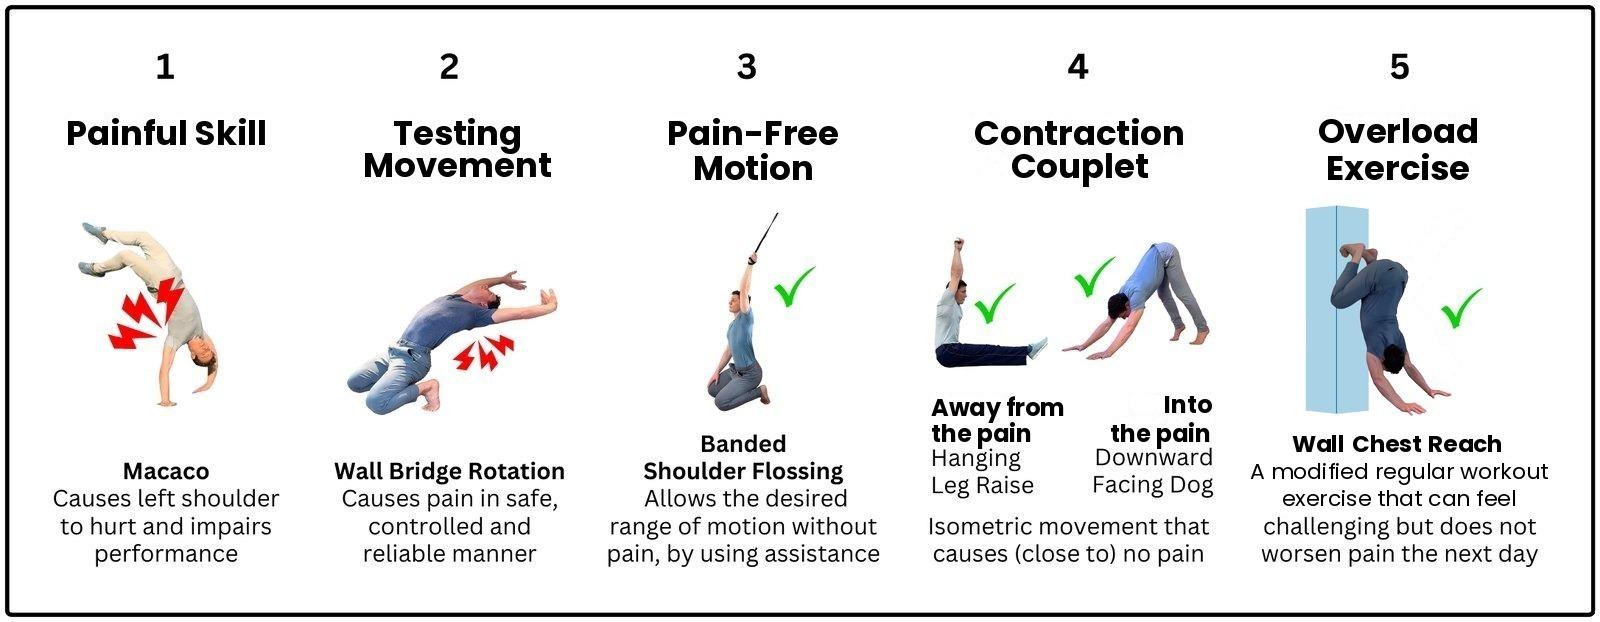
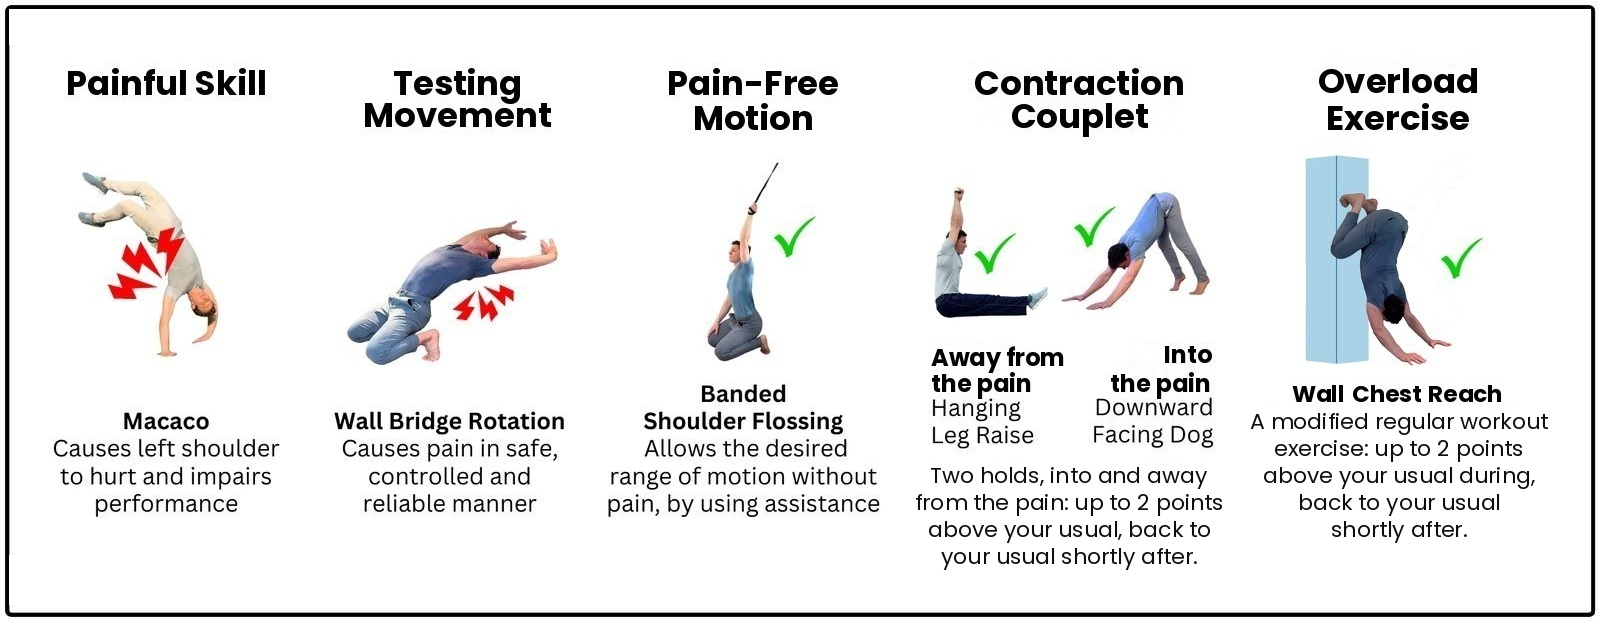
Preview: everyday-task question in Assess, regular-workout question in Program, corrected five-movements graphic (adapt-v66)
Not live: on a branch for Sam's review. Pages deploys from main only.

Claude-Session: https://claude.ai/code/session_01KPdD7PkuL4yCT5s2oXxxDz

diff --git a/index.html b/index.html
@@ -291,10 +291,10 @@ function newPlan(o={}){
   return Object.assign({
     id:uid(), v:1, created:today(), person:"", last:"", side:"", region:"", support:"self", origin:"self",
     screen:{ rf:{}, hh:{}, done:false, date:null },
-    assess:{ kind:"painful", start:"", how:"", recent:"", nrsop:null, skill:"", inhibited:"", pct:"", psfs:null, goal:"" },
+    assess:{ kind:"painful", ctx:"", start:"", how:"", recent:"", nrsop:null, skill:"", inhibited:"", pct:"", psfs:null, goal:"" },
     determine:{ crux:"", move:"", dose:"", range:"", load:"", nrsop:null },
     approach:{ pfm:"", cc:"", cc2:"" },
-    program:{ ov:"", replaces:"", skip:false },
+    program:{ ov:"", replaces:"", workout:"", skip:false },
     tracking:false,
     logs:{ daily:{}, tests:[], overload:[], skill:[] },
     note:""
@@ -365,6 +365,12 @@ function toast(t){ const el=document.createElement("div"); el.className="toast";
 async function copy(text){ try{ await navigator.clipboard.writeText(text); toast("Copied"); return true; }catch(e){ return false; } }
 const isPainful = p => p.assess.kind !== "restricted";
 const skillLabel = p => isPainful(p) ? "Painful Skill" : "Restricted Skill";
+// Everyday task or sport/training (Sam, Aaron agreed, November 10, 2026); unset reads as sport/training
+const isDaily = p => !!(p&&p.assess&&p.assess.ctx==="daily");
+const skillType = p => isDaily(p) ? " (everyday task)" : "";
+// Regular workout program? (Sam, Aaron agreed, November 10, 2026): "no" means the Overload Exercise is added, not swapped in.
+// Older plans with a replaced exercise filled in count as "yes".
+const hasWorkout = p => p.program.workout || ((p.program.replaces||"").trim() ? "yes" : "");
 
 function scaleColor(n, kind){ // NRSoP: 0 green to 10 red; PSFS: 0 red to 10 green
   const t = kind==="psfs" ? (10-n)/10 : n/10;
@@ -705,7 +711,7 @@ function handoffView(p){ const sam=p.support==="sam"; const goal=(p.assess.goal|
     <p>${who} holding your ${sk} back anymore. That’s the ADAPT part done; the next part happens in your regular training.</p>
     <p><b>Take these with you:</b></p><ul class="tight">
     <li><b>Your ${esc(mvn(p,"pfm"))} and ${esc(mvn(p,"cc"))}:</b> they’re not daily anymore, but they’re your go-to warm-up or reset whenever your ${sk} feels off</li>
-    ${(!p.program.skip&&(p.program.ov||"").trim())?`<li><b>Your ${esc(mvn(p,"ov"))}:</b> you can swap back to ${esc((p.program.replaces||"").trim()||"your original exercise")} now, or keep it in your rotation. Keeping it for a couple of weeks means one less change while you ramp up your skill practice; swapping it now puts your whole program back the way it was originally</li>`:""}
+    ${(!p.program.skip&&(p.program.ov||"").trim())?`${hasWorkout(p)==="no"?`<li><b>Your ${esc(mvn(p,"ov"))}:</b> keep it going 2-3 times a week; it’s the start of your own strength routine</li>`:`<li><b>Your ${esc(mvn(p,"ov"))}:</b> you can swap back to ${esc((p.program.replaces||"").trim()||"your original exercise")} now, or keep it in your rotation. Keeping it for a couple of weeks means one less change while you ramp up your skill practice; swapping it now puts your whole program back the way it was originally</li>`}`:""}
     <li><b>Adjustment variables:</b> assistance, range, speed, and load let you adjust a movement instead of stopping completely or just powering through</li>
     <li><b>Respect but don’t fear your pain:</b> a little discomfort is information, not a stop sign</li>
     <li><b>Find the wins obscured by the losses:</b> keep the ADAPT mindset to always find some alternative way to continue improving</li></ul></div>
@@ -715,7 +721,7 @@ function handoffView(p){ const sam=p.support==="sam"; const goal=(p.assess.goal|
     ${win}</div>
   <div class="card"><h2>Your plan and tracking</h2><div class="row"><button class="btn plain small" data-act="go" data-v="track">View my plan and tracking</button>${armed==="reentry"?`<div class="row"><button class="btn small" data-act="reentry">Yes, it’s getting limited again</button><button class="btn plain small" data-act="reentry-cancel">Cancel</button></div>`:`<button class="btn plain small" data-act="reentry">My ${sk} is getting limited again</button>`}</div></div>
   </div>`; }
-function winEmail(p){ const s=statRow(p,p.win.date); const lines=["Hi Sam, I hit my 11/10.","",`11/10 goal: ${p.assess.goal||"-"}`,`${skillLabel(p)}: ${p.assess.skill||"-"}`,
+function winEmail(p){ const s=statRow(p,p.win.date); const lines=["Hi Sam, I hit my 11/10.","",`11/10 goal: ${p.assess.goal||"-"}`,`${skillLabel(p)}${skillType(p)}: ${p.assess.skill||"-"}`,
   `Support: ${s.support}`,`Side and region: ${[s.side,s.region].filter(Boolean).join(" ")||"-"}`,`Skill type: ${s.kind}`,`PSFS at start: ${s.psfs===""?"-":s.psfs+"/10"}`,
   `Weeks to 10/10: ${p.handoff?weeksSince(p,p.handoff.at10):"-"}`,`Weeks to 11/10: ${s.weeks}`,`Exercise changes: ${s.changes}`];
   return lines.join("\n"); }
@@ -764,6 +770,7 @@ const EX_GROUPS = {S:"shoulder",Ar:"shoulder",UB:"shoulder",Ch:"shoulder",K:"kne
 const EX = {
   shoulder:{name:"a shoulder",
     crux:"“My shoulder, with my arm overhead, while it holds my weight (like the bottom of a handstand or a kipping swing).”",
+    cruxD:"“My shoulder, with my arm reaching up, while it holds some weight (like putting a box on a high shelf).”",
     tm:"A controlled wall slide: forearms on a wall, slide your hands up as high as you can control. 5 controlled reps.",
     pfm:"Hold a door frame or a band overhead and step under it, so your arm ends up overhead without your shoulder doing the lifting.",
     into:"Arm overhead against a wall, push your hand into the wall and hold.",
@@ -772,6 +779,7 @@ const EX = {
     ov:"Wall chest reaches: hands on the floor, walk your chest toward the wall, deeper over time."},
   knee:{name:"a knee",
     crux:"“My knee, bent deep, with my weight on it (like landing a jump or the bottom of a squat).”",
+    cruxD:"“My knee, bent deep, with my weight on it (like getting up from a low chair or going down stairs).”",
     tm:"A partial single-leg squat holding a pole for balance, only as deep as you control. 5 controlled reps.",
     pfm:"Lying on your back, slide your heel toward your butt and back out (heel slides).",
     into:"A wall sit at the depth just before it bothers you.",
@@ -780,6 +788,7 @@ const EX = {
     ov:"Step-downs from a low box, controlling the way down; raise the box over time."},
   back:{name:"a low back",
     crux:"“My low back, bending forward, with load (like picking something up or rolling down).”",
+    cruxD:"“My low back, bending forward, with load (like picking up a laundry basket or loading the dishwasher).”",
     tm:"A controlled roll-down with a light weight (Jefferson curl), only as far as you control. 5 controlled reps.",
     pfm:"On hands and knees, rock your hips back toward your heels and forward again.",
     into:"Hold a hip hinge (like the start of a deadlift) with a light weight, just before it bothers you.",
@@ -788,6 +797,7 @@ const EX = {
     ov:"Back extensions on a bench or Roman chair, through a range that fits the pain guidelines."},
   wrist:{name:"a wrist",
     crux:"“My wrist, bent back, with my weight on it (like a handstand or a push-up).”",
+    cruxD:"“My wrist, bent back, with my weight on it (like pushing up from a chair or leaning on a counter).”",
     tm:"Hands flat on a table, lean your weight forward over them as far as you control. 5 controlled reps.",
     pfm:"Hands together in front of your chest (prayer position), slide them gently down and up.",
     into:"Hands flat on a table, lean a little weight forward and hold.",
@@ -796,6 +806,7 @@ const EX = {
     ov:"Incline push-ups on a raised surface, lowering the surface over time."},
   neck:{name:"a neck",
     crux:"“My neck, turned and tilted back, while it holds my head steady (like looking up in a bridge or a headstand).”",
+    cruxD:"“My neck, turned and tilted back, while it holds my head steady (like looking over your shoulder or up at a high shelf).”",
     tm:"Seated, turn your head toward the sore side and look up, as far as you control. 5 controlled reps.",
     pfm:"Lying on your back with your head supported, gently roll your head side to side.",
     into:"Hand on the side of your head, push your head into your hand toward the sore side and hold, without letting it move.",
@@ -804,6 +815,7 @@ const EX = {
     ov:"Wall-supported headstand holds with most of your weight on your hands, shifting more onto your head over time."},
   elbow:{name:"an elbow",
     crux:"“My elbow, bent and pulling, with my weight on it (like the top of a pull-up).”",
+    cruxD:"“My elbow, bent and pulling, with weight in my hand (like carrying grocery bags or lifting a full pot).”",
     tm:"A controlled biceps curl with a light weight, through the range you control. 5 controlled reps.",
     pfm:"Forearm resting on a table, slide your hand toward your shoulder and back, letting the table hold the weight.",
     into:"Elbow bent to 90 degrees, push your palm up into the underside of a table and hold.",
@@ -812,6 +824,7 @@ const EX = {
     ov:"Ring rows or inverted rows, making your body angle steeper over time."},
   hip:{name:"a hip",
     crux:"“My hip, bent deep, with my weight on it (like the bottom of a squat or a deep lunge).”",
+    cruxD:"“My hip, bent deep, with my weight on it (like getting out of a low chair or out of the car).”",
     tm:"A controlled squat holding a pole for balance, only as deep as you control. 5 controlled reps.",
     pfm:"Lying on your back, hug one knee toward your chest and let it back down, with your hands doing the work.",
     into:"Lying on your back, knee bent toward your chest, push your knee up into your hands and hold.",
@@ -820,6 +833,7 @@ const EX = {
     ov:"Box squats to a high box, lowering the box over time."},
   ankle:{name:"an ankle",
     crux:"“My ankle, bent with my knee forward over my toes, with my weight on it (like landing a jump or the bottom of a squat).”",
+    cruxD:"“My ankle, bent with my knee forward over my toes, with my weight on it (like going down stairs or crouching to pick something up).”",
     tm:"Knee-to-wall: foot facing a wall, bring your knee toward the wall as far as you control. 5 controlled reps.",
     pfm:"Seated, draw slow circles with your foot.",
     into:"Split stance, bend your front knee forward until just before it bothers you and hold.",
@@ -830,8 +844,9 @@ const EX = {
 function exFor(p){ return EX[EX_GROUPS[p.region]]||null; }
 function exBox(p,k,label){ const e=exFor(p);
   if(!p.region) return `<div class="ex"><b>${esc(label||"Example")}</b><span class="small">Pick your body region in Step 1 (Assess) to see an example for your area here.</span></div>`;
-  if(!e) { const s=EX.shoulder; return `<div class="ex"><b>${esc(label||"Example")} (shoulder)</b><span class="small">We don’t have an example for this area yet, so here’s one for a shoulder to show the idea. ${esc(k==="ov"?`Replacing ${s.rep.toLowerCase()}: ${s.ov}`:s[k])}</span></div>`; }
-  const txt = k==="ov" ? `Replacing ${e.rep.toLowerCase()}: ${e.ov}` : e[k];
+  if(!e) { const s=EX.shoulder; return `<div class="ex"><b>${esc(label||"Example")} (shoulder)</b><span class="small">We don’t have an example for this area yet, so here’s one for a shoulder to show the idea. ${esc(k==="ov"?(hasWorkout(p)==="no"?s.ov:`Replacing ${s.rep.toLowerCase()}: ${s.ov}`):s[k==="crux"&&isDaily(p)?"cruxD":k])}</span></div>`; }
+  const kk = k==="crux"&&isDaily(p)&&e.cruxD ? "cruxD" : k;
+  const txt = k==="ov" ? (hasWorkout(p)==="no" ? e.ov : `Replacing ${e.rep.toLowerCase()}: ${e.ov}`) : e[kk];
   return `<div class="ex"><b>${esc(label||"Example")} for ${esc(e.name)}</b><span class="small">${esc(txt)}</span></div>`; }
 function subPart(n,title,paths,body){ const p=P(); const done = paths.length && paths.every(x=>String(getPath(p,x)??"").trim());
   return `<div class="card sub" data-req="${paths.join(",")}" data-done="${done?"1":""}"><h2 class="sub-h"><span class="n"><span>${n}</span></span>${esc(title)}</h2>${body}</div>`; }
@@ -855,7 +870,12 @@ const PARTS = {
       <div class="row" role="group" aria-labelledby="kind-q">
       <button class="btn small ${a.kind!=="restricted"?"":"plain"}" data-act="kind" data-v="painful" aria-pressed="${a.kind!=="restricted"}">It hurts</button>
       <button class="btn small ${a.kind==="restricted"?"":"plain"}" data-act="kind" data-v="restricted" aria-pressed="${a.kind==="restricted"}">It's limited, but doesn't hurt</button></div>
-      ${a.kind==="restricted"?`<p class="fine">If the label of “pain” isn’t connecting with you, we’ve all got a weak link that’s holding us back from a skill we want; just swap that language in your mind whenever it comes up.</p>`:""}</div>`; }},
+      ${a.kind==="restricted"?`<p class="fine">If the label of “pain” isn’t connecting with you, we’ve all got a weak link that’s holding us back from a skill we want; just swap that language in your mind whenever it comes up.</p>`:""}
+      <b id="ctx-q">Is it part of a sport or training, or an everyday task?</b>
+      <div class="row" role="group" aria-labelledby="ctx-q">
+      <button class="btn small ${a.ctx==="sport"?"":"plain"}" data-act="ctx" data-v="sport" aria-pressed="${a.ctx==="sport"}">Sport or training</button>
+      <button class="btn small ${a.ctx==="daily"?"":"plain"}" data-act="ctx" data-v="daily" aria-pressed="${a.ctx==="daily"}">Everyday task</button></div>
+      <p class="fine">Everyday tasks count. Standing for 15 minutes, sitting through a movie, or carrying groceries up the stairs can be your skill just like a handstand or a takedown can.</p></div>`; }},
     {t:"Where and when", paths:["region"], body:p=>subPart(1, isPainful(p)?"Pain/Injury Details":"Details", ["region"], `
       <div class="f" style="display:grid;gap:6px"><b>Where is it?</b><span class="hint muted small">If more than one area is involved, pick the one most important to focus on in this plan.</span>
       <div class="row" role="group" aria-label="Side">${SIDES.map(([k,l])=>`<button type="button" class="btn small ${p.side===k?"":"plain"}" data-act="side" data-v="${k}" aria-pressed="${p.side===k}">${l}</button>`).join("")}</div>
@@ -865,26 +885,30 @@ const PARTS = {
       ${field("What have you noticed recently?","assess.recent","",{area:true})}
       ${isPainful(p)?`<div class="f" style="display:grid;gap:6px"><b>My NRSoP score</b><span class="hint muted small">Numeric Rating Scale of Pain. Higher score = more pain.</span>${scale("assess.nrsop",p.assess.nrsop,"nrsop")}</div>`:""}`),
       sum:p=>[["Where",regionName(p)],["Started",p.assess.start],["How it started",p.assess.how],["Recently",p.assess.recent],...(isPainful(p)?[["NRSoP",p.assess.nrsop!=null?p.assess.nrsop+"/10":""]]:[])]},
-    {t:p=>skillLabel(p), paths:["assess.skill"], body:p=>subPart(2, skillLabel(p), ["assess.skill"], `
+    {t:p=>skillLabel(p), paths:["assess.skill"], body:p=>subPart(2, skillLabel(p), ["assess.skill"], isDaily(p) ? `
+      <p class="fine">In ADAPT, this everyday task is your ${esc(skillLabel(p))}.</p>
+      ${field("What everyday task is limited?","assess.skill","Something from daily life or work, described as the task, not just a body motion. ex., standing for 15 minutes, sitting through a movie, carrying groceries up the stairs, picking up your kid (not “bending my back”).",{ph:"ex., standing for 15 minutes"})}
+      ${field("How is it limited?","assess.inhibited","ex., pain, apprehension, weakness, loss of control.",{area:true})}
+      ${field("What percentage of the time is it limited?","assess.pct","",{ph:"ex., 80%"})}` : `
       ${field("What skill is inhibited?","assess.skill","A skill from your sport or practice, not just a body motion. ex., kipping pull-ups, landing a back handspring, shooting a double-leg takedown (not “lifting my arm”).",{ph:"ex., macaco"})}
       ${field("How is the skill inhibited?","assess.inhibited","ex., pain, apprehension, weakness, loss of control.",{area:true})}
       ${field("What percentage of reps are inhibited?","assess.pct","",{ph:"ex., 80%"})}`),
-      sum:p=>[["Skill",p.assess.skill],["How it’s inhibited",p.assess.inhibited],["Reps inhibited",p.assess.pct]]},
+      sum:p=>isDaily(p)?[["Everyday task",p.assess.skill],["How it’s limited",p.assess.inhibited],["Time limited",p.assess.pct]]:[["Skill",p.assess.skill],["How it’s inhibited",p.assess.inhibited],["Reps inhibited",p.assess.pct]]},
     {t:"PSFS score", paths:["assess.psfs"], body:p=>subPart(3, "Your PSFS score", ["assess.psfs"], `
       <img class="fig" src="img/psfs-scale.jpg" alt="PSFS scale: 0 means unable to perform the activity due to pain or injury, 10 means able to perform it at the same level as before." width="1600" height="647">
       <div style="display:grid;gap:6px"><b>My PSFS score for this skill</b><span class="hint muted small">${esc(psfsExplain(p))}</span>${scale("assess.psfs",p.assess.psfs,"psfs")}</div>`),
       sum:p=>[["PSFS",p.assess.psfs!=null?p.assess.psfs+"/10":""]]},
     {t:"11/10 goal", paths:["assess.goal"], body:p=>subPart(4, "Your 11/10 goal", ["assess.goal"], `
-      ${field("Your 11/10 “Beyond-Old-Limits” goal","assess.goal","What would let you know you expanded your movement horizons? Ex.: “I can land an aerial pain-free on the knee that currently hurts, which would mean my knee is comfortable with more load than it ever has.”",{area:true})}`),
+      ${field("Your 11/10 “Beyond-Old-Limits” goal","assess.goal",isDaily(p)?"What would let you know you expanded your limits? Ex.: “I can stand through a whole concert and then walk home, which would mean my back handles more than it did before this started.”":"What would let you know you expanded your movement horizons? Ex.: “I can land an aerial pain-free on the knee that currently hurts, which would mean my knee is comfortable with more load than it ever has.”",{area:true})}`),
       sum:p=>[["Goal",p.assess.goal]]}
   ],
   step2:[
     {t:"Overview", body:p=>{ const sk=esc(skillLabel(p).toLowerCase()); return `<div class="card"><p>Testing your ${sk} every week just pokes the bear instead of giving useful data. Instead, you’ll find a simpler movement that brings on the same problem in a way you control. That’s your <b>Testing Movement</b>. You’ll repeat it once a week to see if you’re getting better.</p>
       <div class="rule"><b>Test once a week, cold</b><span class="small">No warm-up, and around the same time of day if you can. Changes in these numbers over time tell you whether you’re improving, holding steady, or slipping.</span></div>
       <p class="small muted">${esc(skillLabel(p))}: <b>${esc(p.assess.skill||"not filled in yet")}</b></p>
-      ${more("Why not just test the skill?",`<p>It may not be safe to perform right now, or pain may make you bail halfway (ever bailed in the middle of a backflip? Not fun, and potentially dangerous). It can also build doubt about the skill, and it may need a warm-up, which makes week-to-week results less reliable. The Testing Movement avoids all of that.</p>`)}</div>`; }},
+      ${isDaily(p)?more("Why not just test the task?",`<p>Doing the full task every week can flare things up, it can build doubt about something you need for daily life, and how it goes depends a lot on the day (how tired you are, how long you’ve been on your feet), which makes week-to-week results less reliable. The Testing Movement avoids all of that.</p>`):more("Why not just test the skill?",`<p>It may not be safe to perform right now, or pain may make you bail halfway (ever bailed in the middle of a backflip? Not fun, and potentially dangerous). It can also build doubt about the skill, and it may need a warm-up, which makes week-to-week results less reliable. The Testing Movement avoids all of that.</p>`)}</div>`; }},
     {t:"Find the crux", paths:["determine.crux"], body:p=>{ const sk=esc(skillLabel(p).toLowerCase()); return subPart(1,"Find the crux",["determine.crux"],`<p class="small">Boil your ${sk} down to the smallest piece that causes the problem. It’s usually one area, in one position, with some load on it. Ask yourself:</p>
-      <ul class="tight small"><li><b>Which area?</b> For example, the front of your shoulder, the inside of your knee, your low back</li><li><b>In what position?</b> For example, arm overhead, knee bent deep, back rounded</li><li><b>Doing what?</b> For example, holding your weight, landing, pulling, pushing</li></ul>
+      <ul class="tight small"><li><b>Which area?</b> For example, the front of your shoulder, the inside of your knee, your low back</li>${isDaily(p)?`<li><b>In what position?</b> For example, standing tall, sitting slumped, bent forward, arm reaching up</li><li><b>Doing what?</b> For example, holding still for a long time, lifting, carrying, reaching</li>`:`<li><b>In what position?</b> For example, arm overhead, knee bent deep, back rounded</li><li><b>Doing what?</b> For example, holding your weight, landing, pulling, pushing</li>`}</ul>
       ${exBox(p,"crux")}
       ${field("The crux of my issue","determine.crux","",{area:true,ph:"Which area, in what position, doing what"})}`); },
       sum:p=>[["Crux",p.determine.crux]]},
@@ -925,15 +949,19 @@ const PARTS = {
       sum:p=>[["Into it",p.approach.cc],["Away from it",p.approach.cc2]]}
   ],
   step4:[
-    {t:"Overview", body:p=>`<div class="card"><p>Your <b>Overload Exercise</b> is a real strength exercise: a modified version of one you’d normally train, working in and out of the problem. Unlike the daily exercises, you push it harder over time, like the rest of your regular workout.</p>
+    {t:"Overview", body:p=>`<div class="card"><p>${hasWorkout(p)==="no"?`Your <b>Overload Exercise</b> is a real strength exercise, working in and out of the problem. Unlike the daily exercises, you push it harder over time, 2-3 times a week.`:`Your <b>Overload Exercise</b> is a real strength exercise: a modified version of one you’d normally train, working in and out of the problem. Unlike the daily exercises, you push it harder over time, like the rest of your regular workout.`}</p>
       ${more("Why it matters",`<p>It drives healing and teaches your brain that this range and intensity are safe. Because it stands in for an exercise you already do, the strength carries straight back into your regular training and the skills it supports. It also feels very normal because it’s modified normal exercise, and feeling normal throughout this is awesome.</p>`)}</div>`},
-    {t:"What it replaces", paths:["program.replaces"], body:p=>subPart(1,"Find the exercise you can’t do right now",["program.replaces"],`<p class="small">Which exercise in your regular workout is limited by this problem? That’s the one you’ll replace for now. For example, if shoulder pain is getting in the way of your front handsprings, it’s probably getting in the way of the handstand push-ups you do to build them, too. The handstand push-up is the one to replace.</p>
-      ${field("The exercise it replaces","program.replaces","ex., handstand push-ups, back squats, pull-ups.")}`),
-      sum:p=>[["Replaces",p.program.replaces]]},
-    {t:"Modify it", paths:["program.ov"], body:p=>subPart(2,"Modify it until it fits",["program.ov"],`<p class="small">Change ${p.program.replaces.trim()?`your ${esc(p.program.replaces.trim().toLowerCase())}`:"that exercise"} until it fits the pain guidelines: pain rises no more than 2 points during, and settles back down shortly after.</p>
-      <ul class="tight small"><li><b>Keep it working in and out of the problem:</b> if pushing overhead hurts, it stays a push overhead</li><li><b>Ways to modify:</b> change the angle, shorten the range, add support, or use less weight</li><li><b>It should feel like part of your regular workout,</b> harder than your couplet and close to the exercise it replaces</li></ul>
+    {t:"Your regular workout", paths:p=>hasWorkout(p)==="no"?["program.workout"]:["program.replaces"], body:p=>{ const w=hasWorkout(p); return subPart(1,"Your regular workout",w==="no"?["program.workout"]:["program.replaces"],`<b id="wk-q">Do you have a regular workout program?</b>
+      <div class="row" role="group" aria-labelledby="wk-q">
+      <button class="btn small ${w==="yes"?"":"plain"}" data-act="workout" data-v="yes" aria-pressed="${w==="yes"}">Yes</button>
+      <button class="btn small ${w==="no"?"":"plain"}" data-act="workout" data-v="no" aria-pressed="${w==="no"}">No</button></div>
+      ${w==="yes"?`<p class="small">Which exercise in your regular workout is limited by this problem? That’s the one you’ll replace for now. For example, if shoulder pain is getting in the way of your front handsprings, it’s probably getting in the way of the handstand push-ups you do to build them, too. The handstand push-up is the one to replace.</p>
+      ${field("The exercise it replaces","program.replaces","ex., handstand push-ups, back squats, pull-ups.")}`:w==="no"?`<p class="small">Then your Overload Exercise doesn’t replace anything. It’s a strength exercise you add, done 2-3 times a week and built up over time by the guidelines in the next steps.</p>`:""}`); },
+      sum:p=>hasWorkout(p)==="no"?[["Regular workout","No, so it’s added, not swapped in"]]:[["Replaces",p.program.replaces]]},
+    {t:p=>hasWorkout(p)==="no"?"Pick it":"Modify it", paths:["program.ov"], body:p=>subPart(2,hasWorkout(p)==="no"?"Pick it and make it fit":"Modify it until it fits",["program.ov"],`<p class="small">${hasWorkout(p)==="no"?"Pick a strength exercise that works the same area in the same direction as the problem, then adjust it":`Change ${p.program.replaces.trim()?`your ${esc(p.program.replaces.trim().toLowerCase())}`:"that exercise"}`} until it fits the pain guidelines: pain rises no more than 2 points during, and settles back down shortly after.</p>
+      <ul class="tight small"><li><b>Keep it working in and out of the problem:</b> if pushing overhead hurts, it stays a push overhead</li><li><b>Ways to modify:</b> change the angle, shorten the range, add support, or use less weight</li>${hasWorkout(p)==="no"?`<li><b>It should feel like real strength work,</b> harder than your couplet</li>`:`<li><b>It should feel like part of your regular workout,</b> harder than your couplet and close to the exercise it replaces</li>`}</ul>
       ${exBox(p,"ov")}
-      <img class="fig" src="img/ex-replace.jpg" alt="Example: a bridge walkover in the usual workout, replaced with a wall chest reach." width="1600" height="900">
+      ${hasWorkout(p)==="no"?"":`<img class="fig" src="img/ex-replace.jpg" alt="Example: a bridge walkover in the usual workout, replaced with a wall chest reach." width="1600" height="900">`}
       ${field("My Overload Exercise","program.ov","",{area:true})}
       <label class="row small"><input type="checkbox" data-act="skip" ${p.program.skip?"checked":""}> Nothing fits yet; skip it for now and keep exploring</label>`),
       sum:p=>[["Overload Exercise",p.program.skip&&!p.program.ov.trim()?"Skipped for now":p.program.ov]]},
@@ -946,12 +974,13 @@ const PARTS = {
   ]
 };
 const partTitle = (p,pt) => typeof pt.t==="function" ? pt.t(p) : pt.t;
-function partDone(p,pt){ return !!(pt.paths && pt.paths.length && pt.paths.every(x=>String(getPath(p,x)??"").trim())); }
+const ptPaths = (p,pt) => typeof pt.paths==="function" ? (p?pt.paths(p):[]) : (pt.paths||[]);
+function partDone(p,pt){ const ps=ptPaths(p,pt); return !!(ps.length && ps.every(x=>String(getPath(p,x)??"").trim())); }
 function stepHasData(p,k){ const parts=PARTS[k]; if(!parts||!p) return false;
   if(k==="step2" && p.determine.none) return true; if(k==="step4" && p.program.skip) return true;
-  return parts.some(pt=>(pt.paths||[]).some(x=>String(getPath(p,x)??"").trim())) || (k==="step1" && !!p.side); }
+  return parts.some(pt=>ptPaths(p,pt).some(x=>String(getPath(p,x)??"").trim())) || (k==="step1" && !!p.side) || (k==="step4" && !!p.program.workout); }
 // Which part holds a given field (used by the "Still blank" links and the tests)
-function partOf(k,path){ const parts=PARTS[k]||[]; let i=parts.findIndex(pt=>(pt.paths||[]).includes(path));
+function partOf(k,path){ const parts=PARTS[k]||[]; let i=parts.findIndex(pt=>ptPaths(P(),pt).includes(path));
   if(i<0){ const p=P(); if(p) i=parts.findIndex(pt=>pt.body(p).includes(`data-bind="${path}"`)||pt.body(p).includes(`data-path="${path}"`)); }
   return i<0?0:i; }
 
@@ -1151,7 +1180,7 @@ function skillTable(p,ro){ const L=p.logs.skill; if(!L.length) return "";
 function summaryText(p){
   const t=today(); const c=consistency(p,14); const L=p.logs.tests; const first=L[0], last=L[L.length-1];
   const lines=[`ADAPT check-in: ${planCode(p)||"(no name)"}, ${fmtDate(t)}`,
-  `${skillLabel(p)}: ${p.assess.skill||"-"}${p.assess.psfs!=null?` (PSFS at start ${p.assess.psfs}/10)`:""}`,
+  `${skillLabel(p)}${skillType(p)}: ${p.assess.skill||"-"}${p.assess.psfs!=null?` (PSFS at start ${p.assess.psfs}/10)`:""}`,
   `Pain-Free Motion: ${p.approach.pfm||"-"} | done ${c.pfm} of last 14 days`,
   `Contraction Couplet: ${ccText(p)||"-"} | done ${c.cc} of last 14 days`,
   `Testing Movement: ${p.determine.move||(p.determine.none?"none found yet (flagged)":"-")}`,
@@ -1293,7 +1322,7 @@ V.restore = () => `<div class="stack"><div class="card flat"><span class="eyebro
   <div class="card"><p class="small">Paste a backup you copied earlier. Plans in the backup are added to this device; plans with the same ID are replaced.</p><textarea id="restore-code"></textarea><button class="btn" data-act="restore">Restore</button><button class="btn plain" data-act="go" data-v="${store.activeId?"more":"welcome"}">Back</button></div></div>`;
 
 V.import = () => { const d=importData; return `<div class="stack"><div class="card flat"><span class="eyebrow">Plan from your coach</span><h1>Your ADAPT plan${d.person?`, ${esc(d.person)}`:""}</h1></div>
-  <div class="card"><p><b>${esc(skillLabel(d))}:</b> ${esc(d.assess.skill||"-")}</p><p><b>Testing Movement:</b> ${esc(d.determine.move||"-")}</p><p><b>Pain-Free Motion:</b> ${esc(d.approach.pfm||"-")}</p><p><b>Contraction Couplet:</b> ${esc(ccText(d)||"-")}</p><p><b>Overload Exercise:</b> ${esc(d.program.skip?"Skipped for now":d.program.ov||"-")}</p>
+  <div class="card"><p><b>${esc(skillLabel(d)+skillType(d))}:</b> ${esc(d.assess.skill||"-")}</p><p><b>Testing Movement:</b> ${esc(d.determine.move||"-")}</p><p><b>Pain-Free Motion:</b> ${esc(d.approach.pfm||"-")}</p><p><b>Contraction Couplet:</b> ${esc(ccText(d)||"-")}</p><p><b>Overload Exercise:</b> ${esc(d.program.skip?"Skipped for now":d.program.ov||"-")}</p>
   <button class="btn" data-act="import-save">Save to this device and start</button>
   <p class="fine">It saves on this phone and works offline. Add this page to your home screen to open it like an app.</p></div>${legal()}</div>`; };
 
@@ -1303,7 +1332,7 @@ V.coach = () => { const d=coachData; const c=consistency(d,14); const r=screenRe
   ${d.note?`<div class="card"><h2>Their note</h2><p>${esc(d.note)}</p></div>`:""}
   <div class="card"><h2>Consistency</h2><p>Pain-Free Motion: <b>${c.pfm}/14</b> days &middot; Contraction Couplet: <b>${c.cc}/14</b> days</p>
    <div class="week">${[...Array(14)].map((_,i)=>addDays(today(),i-13)).map(dd=>{const x=d.logs.daily[dd]||{};return `<div class="d"><span>${new Date(dd+"T12:00:00").getDate()}</span><span class="dot ${x.pfm?"on":""}"></span><span class="dot ${x.cc?"on":""}"></span></div>`;}).join("")}</div></div>
-  <div class="card"><h2>Plan</h2><p class="small"><b>Crux:</b> ${esc(d.determine.crux||"-")}</p><p class="small"><b>Pain-Free Motion:</b> ${esc(d.approach.pfm||"-")}</p><p class="small"><b>Contraction Couplet:</b> ${esc(ccText(d)||"-")}</p><p class="small"><b>Overload:</b> ${esc(d.program.skip?"skipped for now":d.program.ov||"-")}${d.program.replaces?` (replaces ${esc(d.program.replaces)})`:""}</p><p class="small"><b>11/10 goal:</b> ${esc(d.assess.goal||"-")}</p></div>
+  <div class="card"><h2>Plan</h2><p class="small"><b>Crux:</b> ${esc(d.determine.crux||"-")}</p><p class="small"><b>Pain-Free Motion:</b> ${esc(d.approach.pfm||"-")}</p><p class="small"><b>Contraction Couplet:</b> ${esc(ccText(d)||"-")}</p><p class="small"><b>Overload:</b> ${esc(d.program.skip?"skipped for now":d.program.ov||"-")}${d.program.workout==="no"?" (added; no regular workout)":d.program.replaces?` (replaces ${esc(d.program.replaces)})`:""}</p><p class="small"><b>11/10 goal:</b> ${esc(d.assess.goal||"-")}</p></div>
   <div class="card"><h2>Testing Movement: ${esc(d.determine.move||(d.determine.none?"none found yet (flagged)":""))}</h2>${recentTrends(d.logs.tests)}${testTrend(d,true)}</div>
   <div class="card"><h2>Overload sessions</h2>${recentTrends(d.logs.overload)}${ovTable(d,true)}</div>
   <div class="card"><h2>Skill retests</h2>${recentTrends(d.logs.skill)}${skillTable(d,true)||`<p class="fine">None yet.</p>`}</div>
@@ -1364,6 +1393,8 @@ document.addEventListener("click", async e=>{
     case "setnum": { const n=Number(v); if(a.dataset.path.startsWith("_tmp.")) tmp[a.dataset.path.slice(5)]=n; else setPath(p,a.dataset.path,n); save(); const y=window.scrollY; rerenderKeepInputs(); window.scrollTo(0,y); break; }
     case "side": p.side=p.side===v?"":v; save(true); { const y=window.scrollY; render(); window.scrollTo(0,y); } break;
     case "kind": p.assess.kind=v; save(); { const y=window.scrollY; render(); window.scrollTo(0,y); } break;
+    case "ctx": p.assess.ctx=v; save(); { const y=window.scrollY; render(); window.scrollTo(0,y); } break;
+    case "workout": p.program.workout=v; save(); { const y=window.scrollY; render(); window.scrollTo(0,y); } break;
     case "skip": p.program.skip=a.checked; save(); break;
     case "start-tracking": if(!p.tracking){ p.tracking=true; p.trackStart=today(); logEvent(p,"Plan started"); } save(true); go("home"); break;
     case "daily": { const t=selDay||today(); const d=p.logs.daily[t]||(p.logs.daily[t]={}); d[a.dataset.k]=!d[a.dataset.k]; save(); const y=window.scrollY; render(); window.scrollTo(0,y); break; }

diff --git a/sw.js b/sw.js
@@ -1,5 +1,5 @@
 // ADAPT offline cache. Bump VERSION on every release so phones pick up the new files.
-const VERSION = "adapt-v64";
+const VERSION = "adapt-v66";
 const CORE = ["./", "index.html", "manifest.webmanifest", "icon-192.png", "icon-512.png",
   "img/journey.jpg","img/mountain-start.jpg","img/mountain-10.jpg","img/mountain-11.jpg","img/five-movements.jpg","img/continuum.jpg","img/before-after.jpg",
   "img/step1.jpg","img/step2.jpg","img/step3.jpg","img/step4.jpg","img/step5.jpg",
